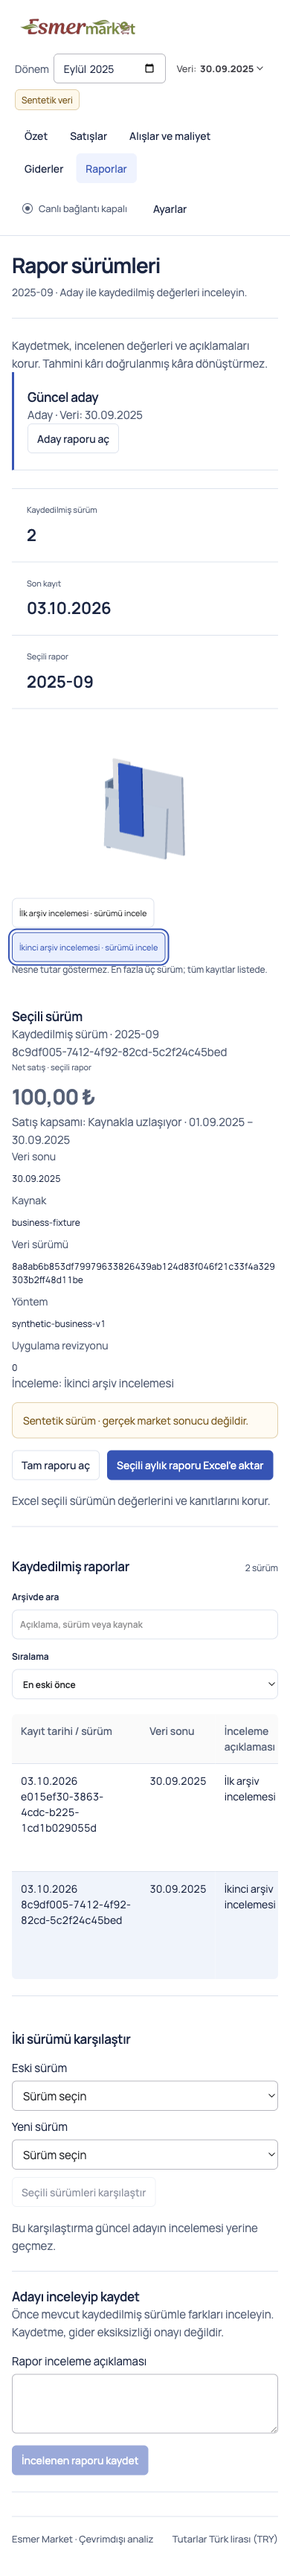
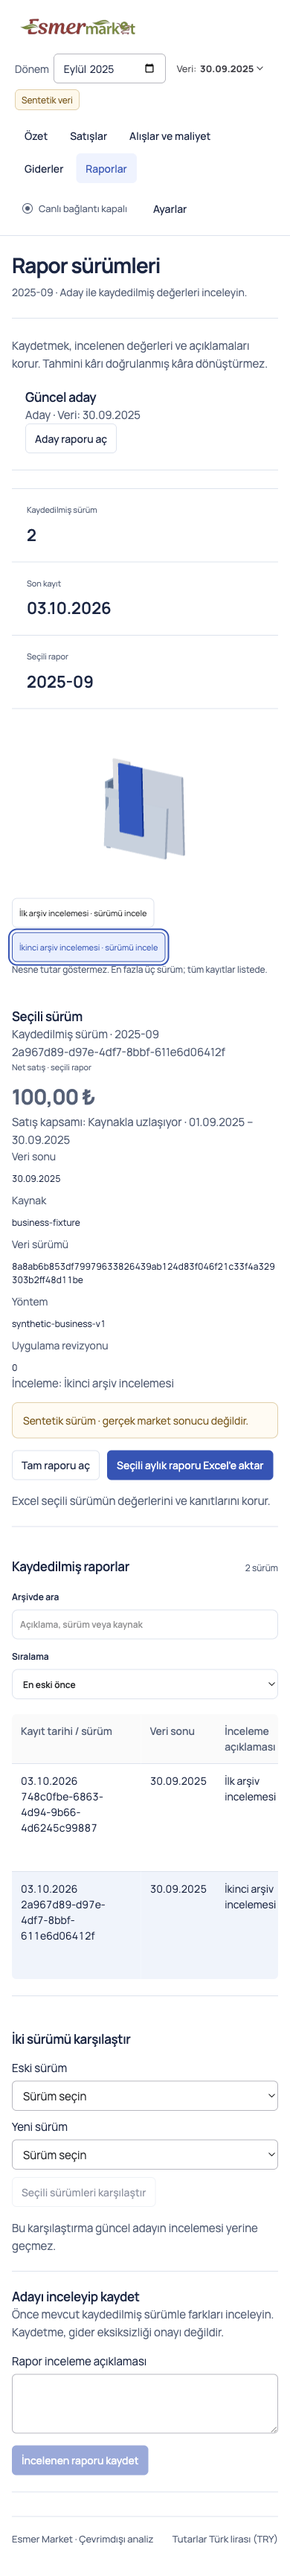
style(reports): keep candidate section on thin separators

diff --git a/src/ui/reports/reports-control-desk.css b/src/ui/reports/reports-control-desk.css
@@ -19,7 +19,6 @@
 .report-sleeve-actions button { border:1px solid var(--line);background:white;padding:7px 9px;border-radius:7px;font-size:11px;max-width:100%;overflow-wrap:anywhere; }
 .report-sleeve-actions button[aria-pressed=true] { background:#e8efff;border-color:#2b55ba;color:#2b55ba; }
 .report-sleeve-actions button:focus-visible { outline:2px solid #2b55ba;outline-offset:3px; }
-.report-candidate { border-left:3px solid #2b55ba; }
 .report-workspace .report-id { overflow-wrap:anywhere; }
 .report-workspace .report-actions { flex-wrap:wrap; }
 .report-workspace .report-actions label { min-width:0;max-width:100%; }
@@ -28,7 +27,7 @@
 .report-workspace .block { border:0;border-radius:0;box-shadow:none;background:transparent;padding:22px 0;border-bottom:1px solid var(--line); }
 .report-workspace h1 { font-size:32px;letter-spacing:-.035em; }
 .report-workspace h2 { font-size:17px;letter-spacing:-.02em; }
-.report-workspace .report-candidate { border-left:3px solid #2b55ba;padding-left:18px; }
+.report-workspace .report-candidate { padding-left:18px; }
 .report-archive-summary { display:grid;grid-template-columns:repeat(3,minmax(0,1fr));border-top:1px solid var(--line);border-bottom:1px solid var(--line);margin:24px 0; }
 .report-archive-summary > div { padding:20px;border-right:1px solid var(--line); }
 .report-archive-summary > div:last-child { border:0; }

diff --git a/workstreams/page-control-desks/reports/evidence.md b/workstreams/page-control-desks/reports/evidence.md
@@ -49,3 +49,5 @@ Normal financial/source 1440/390 captures and separate fallback captures were re
 On integrated head fa6d576: full unit suite49 passed; integration305 passed /5 opt-in SQL checks skipped; packaged desktop72 passed /8 Windows or private-source checks skipped. All ESMER opt-in environment values were cleared except the explicit synthetic packaged executable. No private or live source was inspected. Original logs are retained in the main checkout work/page-implementation/final-{unit,integration,desktop}.log. The existing source typing test passed in this full run.
 
 A final evidence-only correction followed: the financial context-loss full-page capture retained a displaced sticky sidebar. A first scroll-readiness assertion exposed late scroll anchoring at400px; capture now waits for settled zero scroll and uses the actual1440×1000 viewport. Root visually verified the top-aligned sidebar and fallback controls. Typecheck/lint and both financial/source focused checks pass after this test-only change. No application code changed after the full suite. The full run regenerated an unrelated tracked source-estimate screenshot; root restored that test side effect. Windows A07 remains open.
+
+Final finish review required one visual repair: remove the candidate card’s3px cobalt side stripe. Removed only the two border declarations, retained spacing and thin section separator, rebuilt the package and passed3 focused financial/source/renderer checks. Financial normal and fallback captures refreshed; unchanged source captures retained. This CSS-only repair follows the full-suite run and does not change application behavior.
